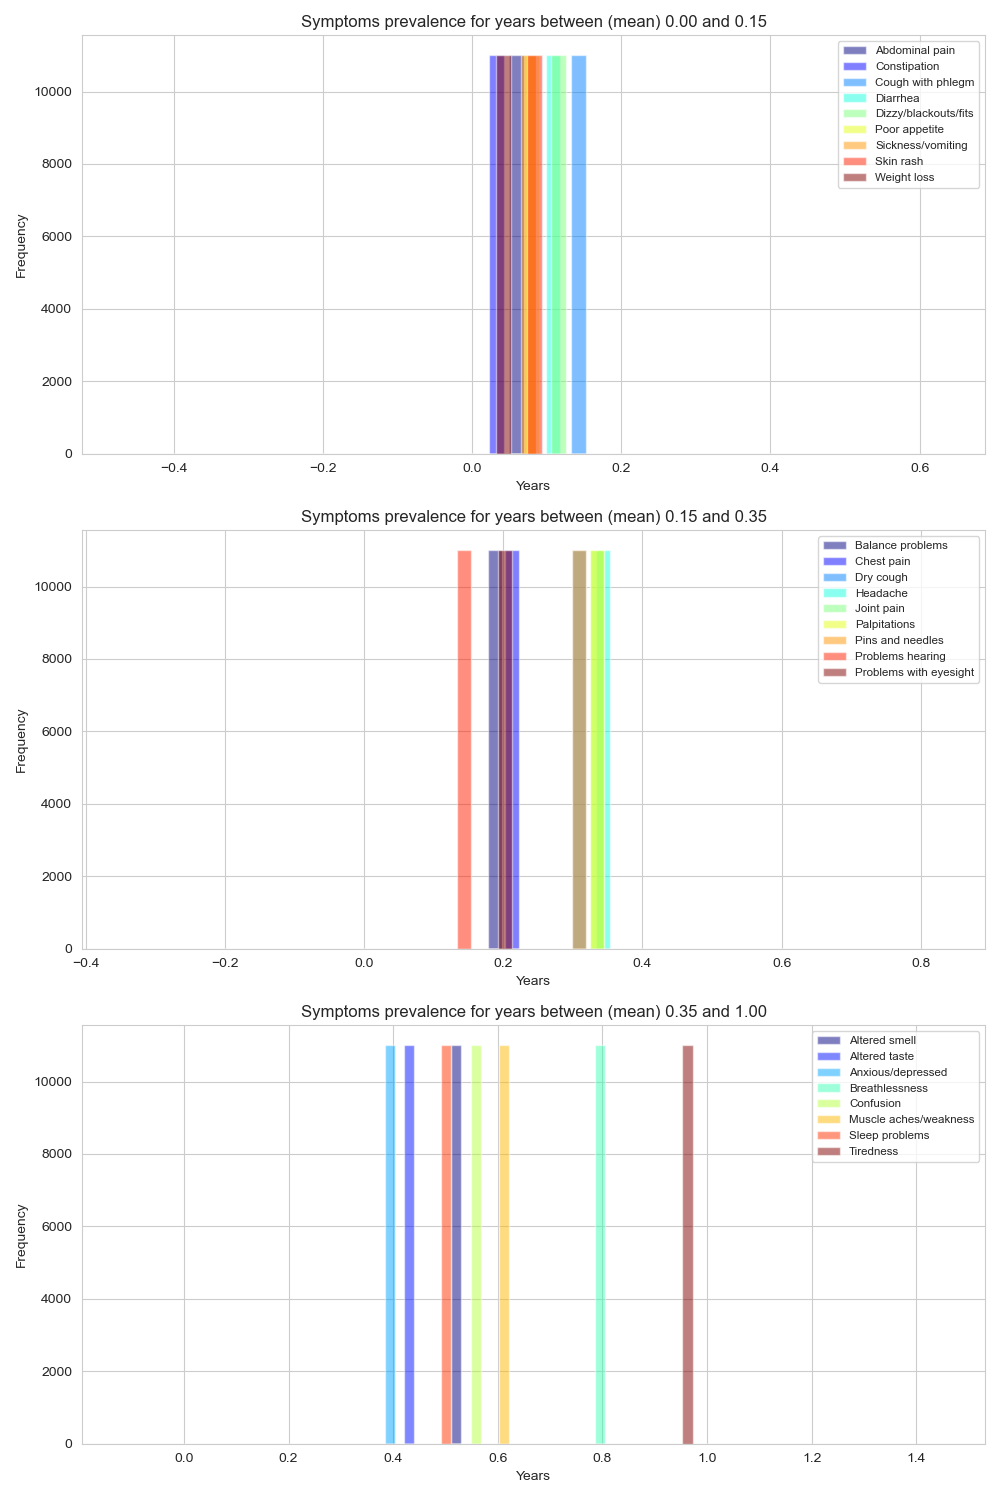
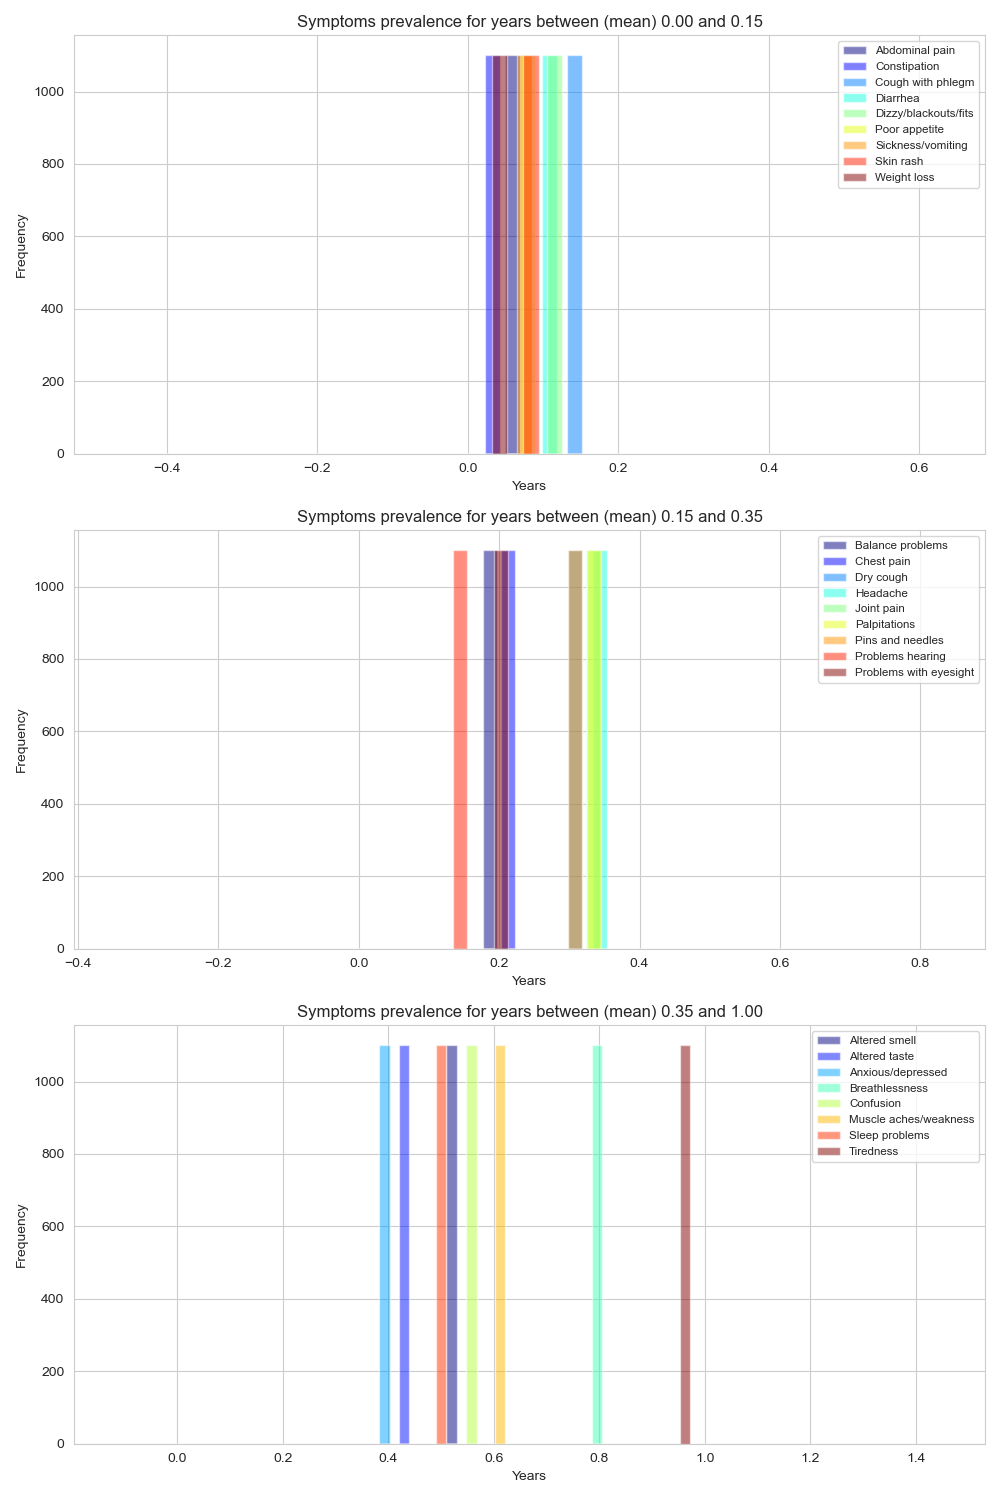
fix infection status updating

diff --git a/main.py b/main.py
@@ -18,8 +18,8 @@ logging.info('Data processing started.')
 
 
 def main():
-    years = 20
-    n_simulations = 3
+    years = 3
+    n_simulations = 5
     population_size_deflator = 300_000
 
     # Setup logging
@@ -119,10 +119,10 @@ def main():
     #plots.plot_all_symptoms(
     #    spe.trace, data_symptom_prevalence['symptom'].unique().tolist(), time_points=np.linspace(0, 18, 100)
     #    ) # Symptom prevalence, decay over time
-    plots.plot_symptom_prevalence_over_time(df_symptom_integrals)
+    plots.plot_symptom_prevalence_over_time(df_symptom_integrals, "output/plots/symptom_prevalence_over_time.png")
     plots.plot_symptom_years_histograms(df_symptom_integrals, num_subplots=3) # Symptom prevalence, total years
     # # Internal simulation outcomes over time
-    plots.plot_daly_loss_over_time(df_merged, population_size_deflator) # Total welfare loss, over time
+    plots.plot_daly_loss_over_time(df_merged, population_size_deflator, "output/plots/daly_loss_over_time.png") # Total welfare loss, over time
 
     # Robustness checks
     try:

diff --git a/utils/simulate_long_covid_cases.py b/utils/simulate_long_covid_cases.py
@@ -65,6 +65,11 @@ class Population:
                 param_values[key] = value
         return param_values
     
+    def update_infection_status(self, week_data):
+        new_infections = np.random.rand(self.size) < self.infection_rate
+        self.data.loc[new_infections, 'covid_infections'] += 1
+        self.data.loc[new_infections, 'last_infection_date'] = week_data['week_start']
+    
     def calculate_long_covid_risk(self, week_data):
         # Calculate the COVID risk adjustment based on the number of years passed
         years_passed = (week_data['week_start'] - self.current_date).days // 365
@@ -127,6 +132,7 @@ class Simulation:
 
     def simulate_week(self, week_data):
         self.population.reset_long_covid_status()
+        self.population.update_infection_status(week_data)
         self.population.calculate_long_covid_risk(week_data)
         self.record_weekly_statistics(week_data)
 

diff --git a/utils/plots.py b/utils/plots.py
@@ -696,4 +696,4 @@ def plot_tornado_diagram(data_path,
     return fig, ax
 
 # Example usage:
-fig, ax = plot_tornado_diagram("output/tables/robustness", output_file="output/plots/robustness_tornado_diagram.png")
+# fig, ax = plot_tornado_diagram("output/tables/robustness", output_file="output/plots/robustness_tornado_diagram.png")
